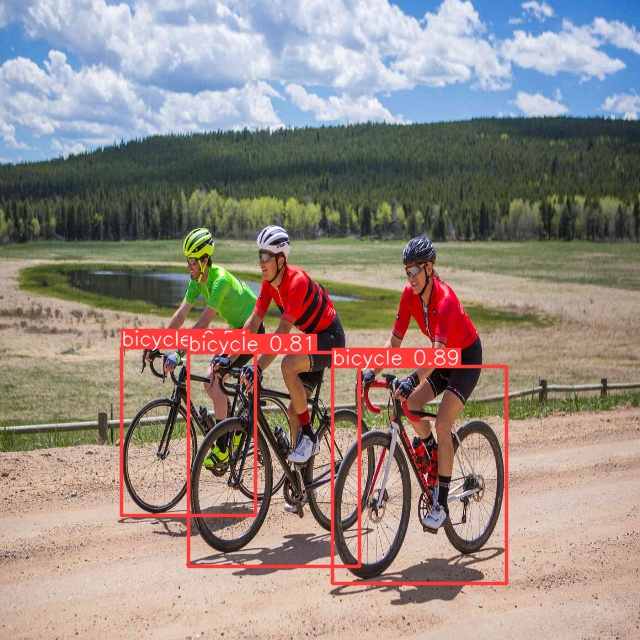
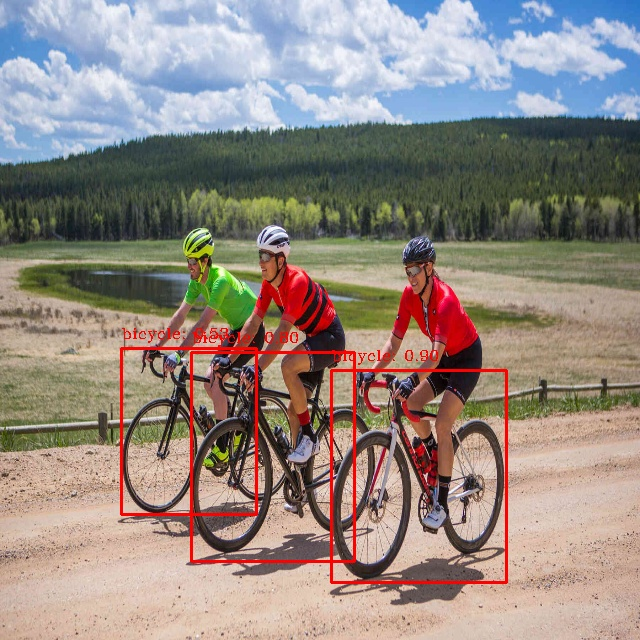
update result

Changed region(s): [[0.1875, 0.5, 0.8125, 0.9375]]

diff --git a/ex2.py b/ex2.py
@@ -3,13 +3,29 @@ import cv2
 #Data
 img_path = "bike_2.png"
 model_path = "best.pt"
+
+#tiền xử lí
 img = cv2.imread(img_path)
-input = cv2.resize(img,(640,640))
+img = cv2.resize(img, (640,640))
+blur_img = cv2.GaussianBlur(img,(5,5), 0)
+input = cv2.cvtColor(blur_img, cv2.COLOR_BGR2RGB)
 
 # đưa qua model với ngưỡng conf = 0.5
 model = YOLO(model_path)
 results = model.predict(input, conf = 0.5)
-for result in results:
-    boxes = result.boxes
-    result.show()
-    result.save(filename="Result.jpg")  # save to disk
+
+# xử lí kết quả
+for result in results[0].boxes:
+    # lấy các tọa độ bbox, id, confidence
+    bbox = result.xyxy[0].tolist()
+    class_id = result.cls
+    conf = result.conf[0]
+    #vẽ lên ảnh gốc
+    x,y,w,h = map(int,bbox[:4])
+    label = model.names[int(class_id)]
+    text = f'{label}: {conf:.2f}'
+    cv2.rectangle(img,(x,y),(w,h), (0,0,255),2)
+    cv2.putText(img, text,(x,y-10), cv2.FONT_HERSHEY_COMPLEX, 0.5,(0,0,255),1)
+cv2.imshow("Detection",img)
+cv2.imwrite("Result.jpg",img)
+cv2.waitKey(0)
